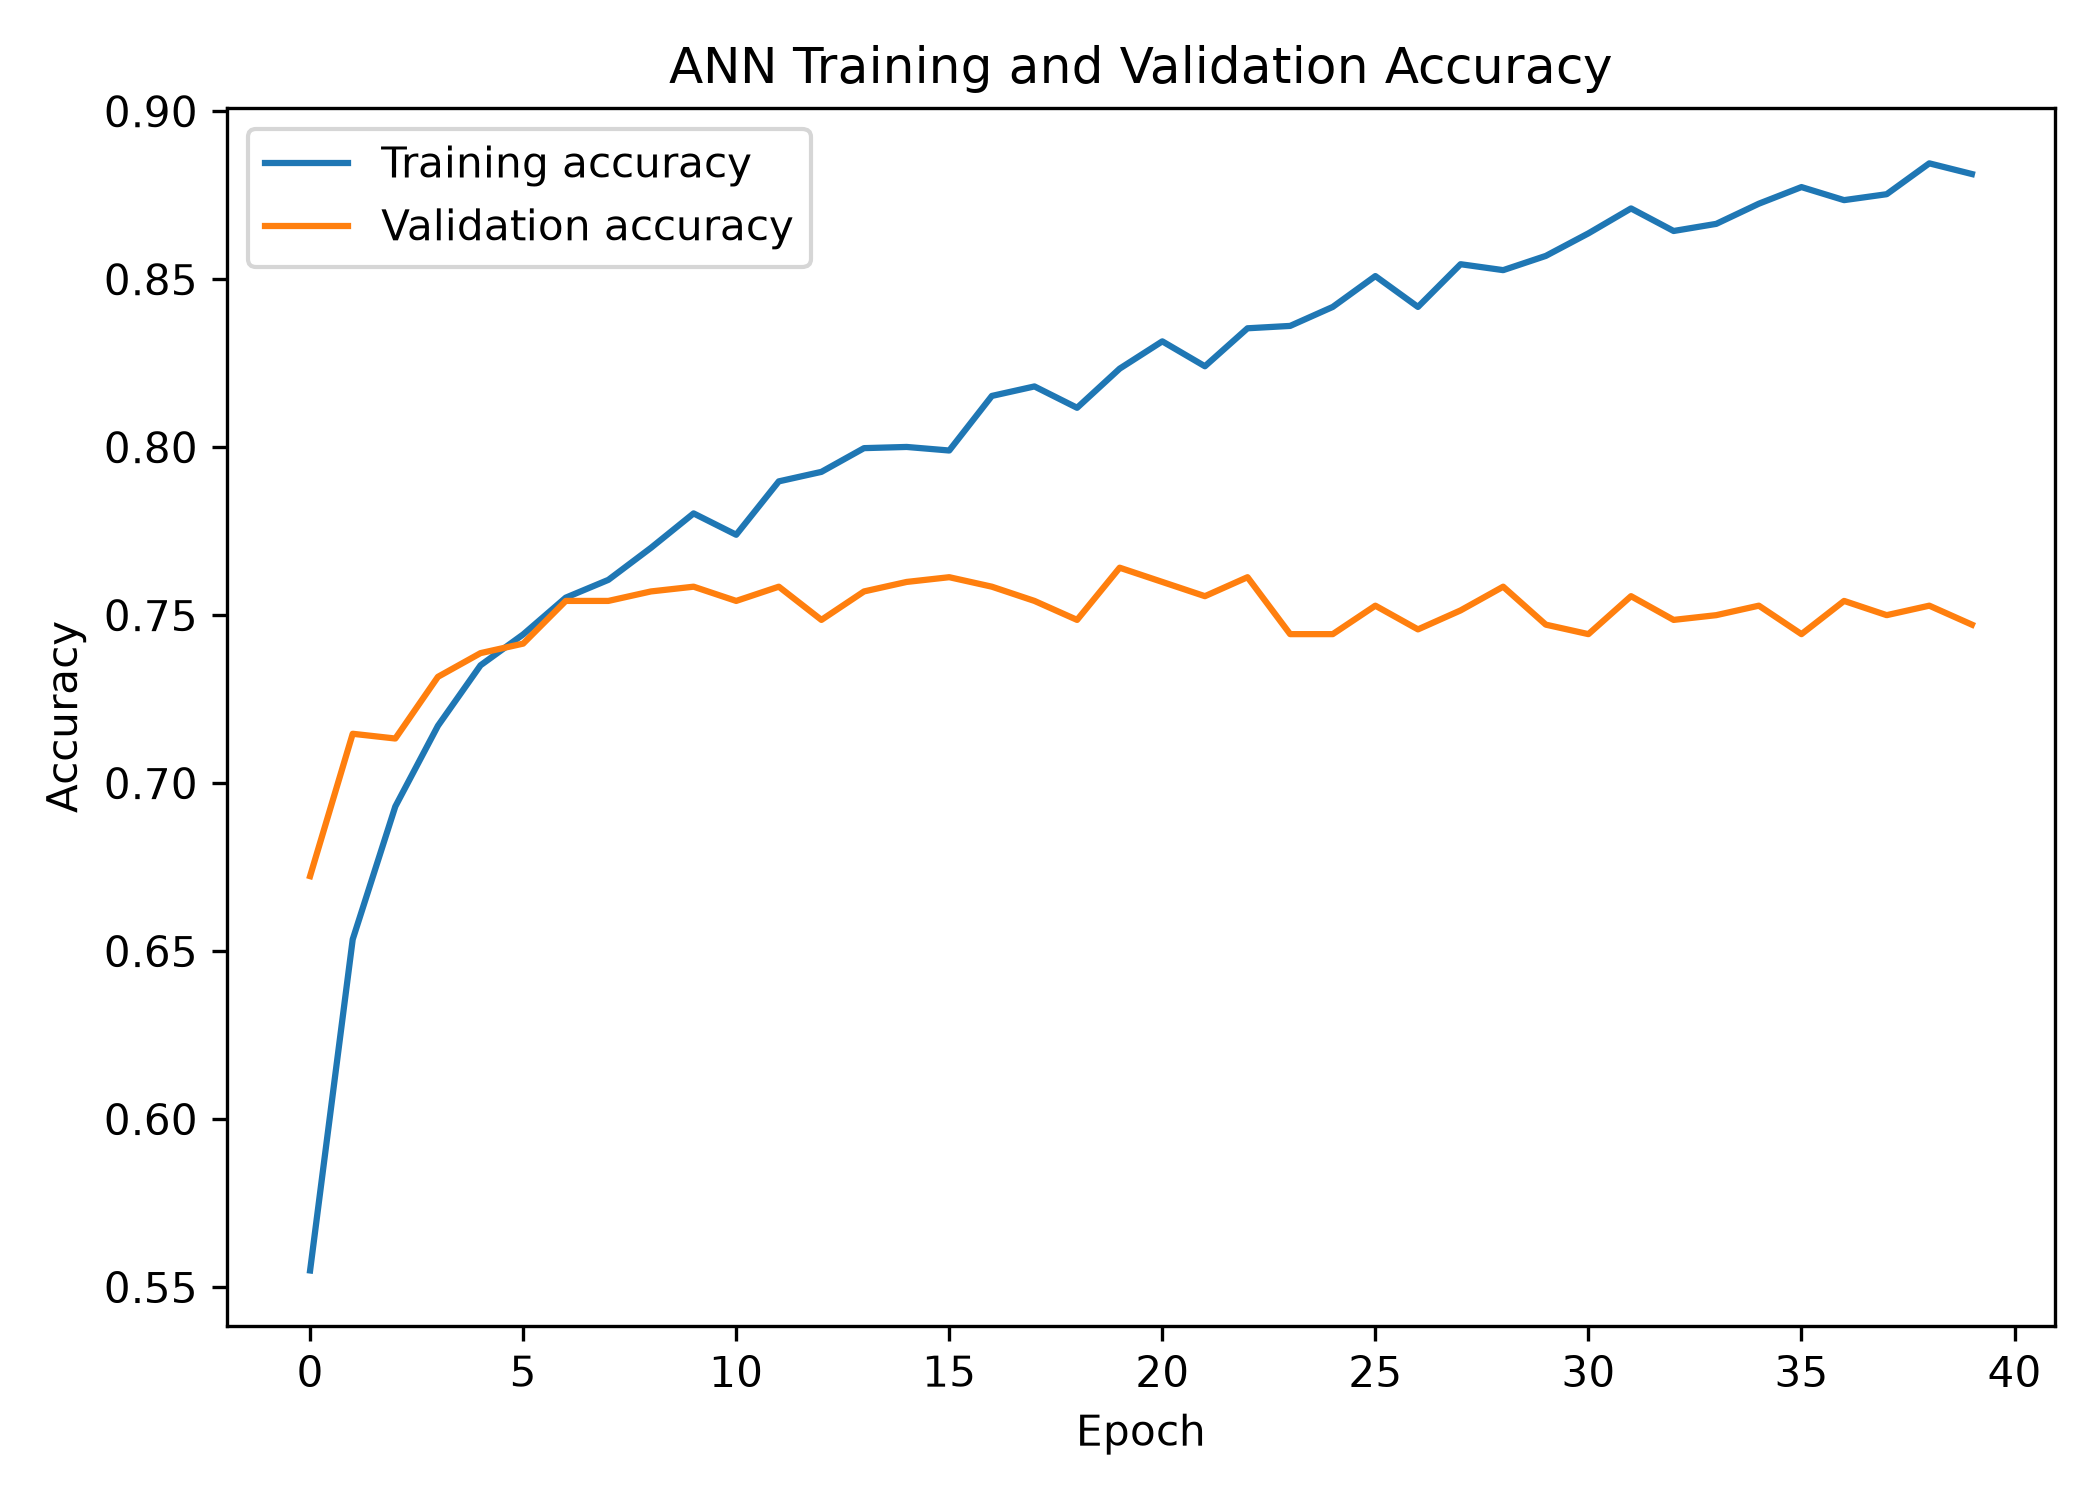
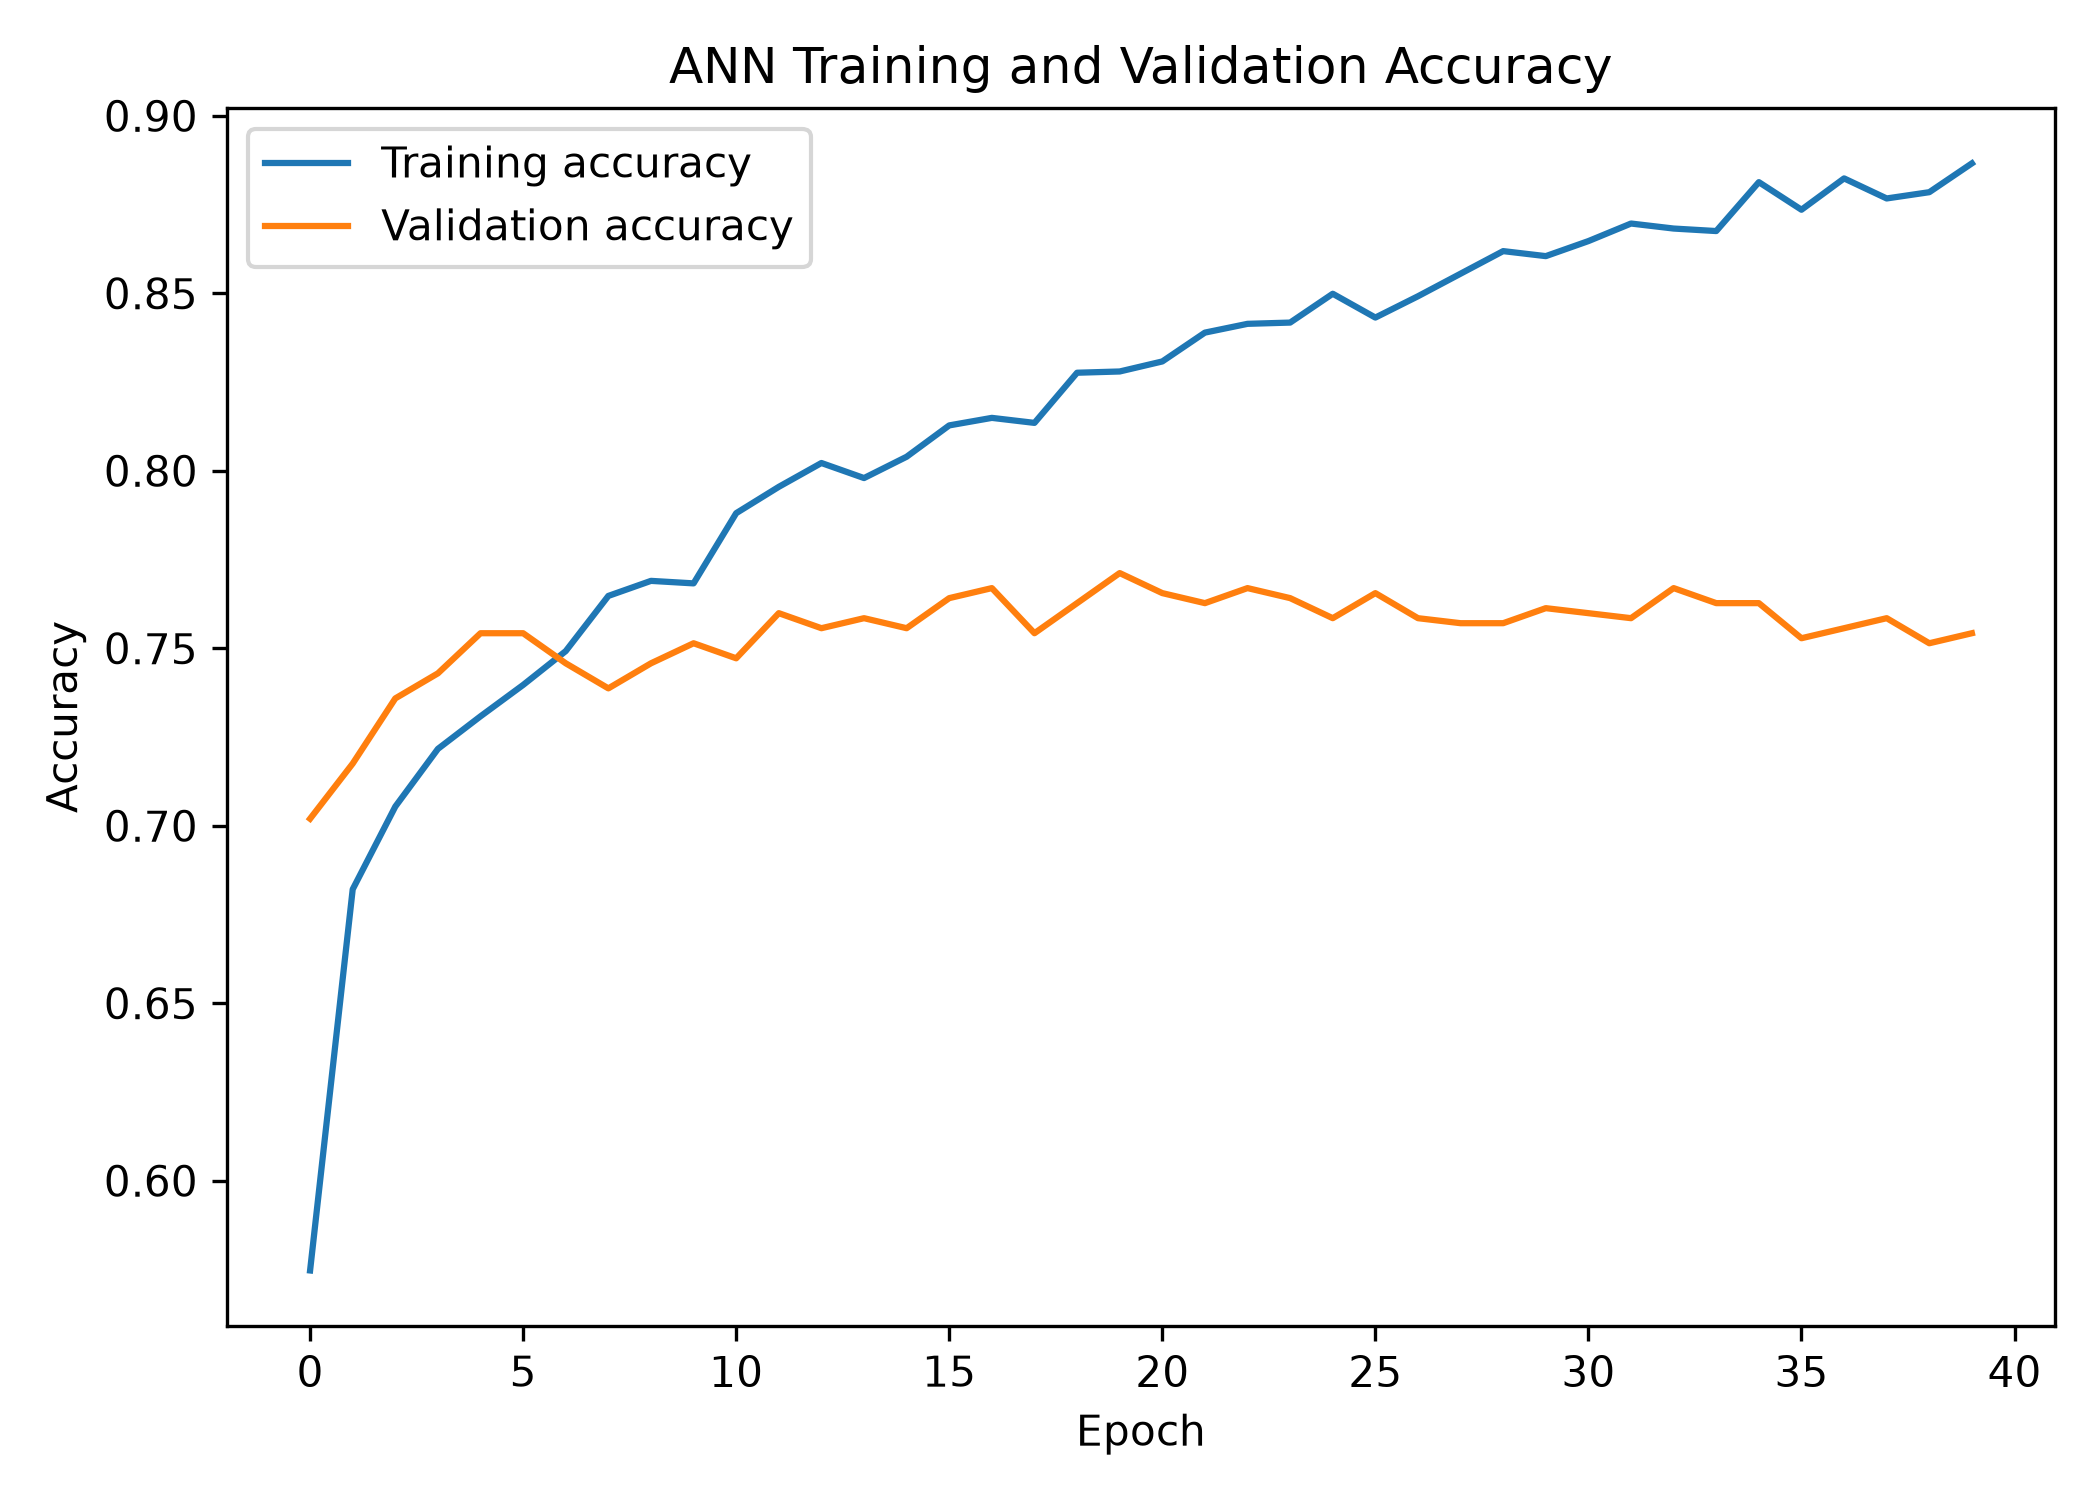
added random forest timing and updated ANN classification decimal places

diff --git a/scripts/classification_models.py b/scripts/classification_models.py
@@ -7,6 +7,9 @@ import matplotlib.pyplot as plt
 
 np.random.seed(42)
 
+from time import perf_counter
+from sklearn.base import clone
+
 from sklearn.compose import ColumnTransformer
 from sklearn.ensemble import RandomForestClassifier
 from sklearn.linear_model import LogisticRegression
@@ -30,9 +33,9 @@ from sklearn.pipeline import Pipeline
 from sklearn.preprocessing import OneHotEncoder, StandardScaler
 
 
-# ---------------------------------------------------------
+
 # Load and prepare data
-# ---------------------------------------------------------
+
 
 PROJECT_ROOT = Path(__file__).resolve().parents[1]
 DATA_PATH = PROJECT_ROOT / "data" / "raw" / "student_outcomes.csv"
@@ -70,9 +73,8 @@ print(f"Training set: {len(X_train)} samples")
 print(f"Test set:     {len(X_test)} samples (held out until final evaluation)")
 
 
-# ---------------------------------------------------------
 # Feature groups and preprocessing
-# ---------------------------------------------------------
+
 
 categorical_features = [
     "Marital Status",
@@ -130,9 +132,9 @@ forest_preprocessor = ColumnTransformer(
 )
 
 
-# ---------------------------------------------------------
+
 # Candidate models
-# ---------------------------------------------------------
+
 
 models = {
     "Logistic Regression": Pipeline(
@@ -156,8 +158,7 @@ models = {
     ),
 }
 
-# Stratified 5-fold CV mirrors the taught classification workflow and
-# keeps class proportions similar in every fold.
+# Stratified 5-fold CV mirrors the taught classification workflow and keeps class proportions similar in every fold.
 cv = StratifiedKFold(n_splits=5, shuffle=True, random_state=42)
 
 scoring = {
@@ -168,9 +169,9 @@ scoring = {
 }
 
 
-# ---------------------------------------------------------
+
 # 5-fold cross-validation model comparison
-# ---------------------------------------------------------
+
 
 comparison_rows = []
 
@@ -212,9 +213,9 @@ print(comparison.round(3).to_string(index=False))
 print("=" * 78)
 
 
-# ---------------------------------------------------------
+
 # Hyperparameter tuning with cross-validation
-# ---------------------------------------------------------
+
 
 logistic_grid = {
     "classifier__C": [0.01, 0.1, 1, 10, 100],
@@ -283,9 +284,8 @@ print(f"Mean training macro F1: {best_rf_row['mean_train_score']:.3f}")
 print(f"Mean CV fit time: {best_rf_row['mean_fit_time']:.3f} seconds")
 
 
-# ---------------------------------------------------------
 # Class-level cross-validation comparison
-# ---------------------------------------------------------
+
 
 class_names = ["Dropout", "Enrolled", "Graduate"]
 
@@ -327,9 +327,7 @@ for name, predictions, csv_name, figure_name in [
     plt.close()
 
 
-# ---------------------------------------------------------
-# Final Logistic Regression evaluation on held-out test set
-# ---------------------------------------------------------
+# Final Logistic Regression and Random Forest evaluation on held-out test set
 
 final_model = logistic_search.best_estimator_
 
@@ -341,10 +339,31 @@ start = time()
 y_pred = final_model.predict(X_test)
 prediction_time = time() - start
 
+
+# Random Forest timing for comparison
+final_rf_model = forest_search.best_estimator_
+
+start = time()
+final_rf_model.fit(X_train, y_train)
+rf_training_time = time() - start
+
+start = time()
+rf_y_pred = final_rf_model.predict(X_test)
+rf_prediction_time = time() - start
+
 accuracy = accuracy_score(y_test, y_pred)
 macro_precision = precision_score(y_test, y_pred, average="macro")
 macro_recall = recall_score(y_test, y_pred, average="macro")
 macro_f1 = f1_score(y_test, y_pred, average="macro")
+
+print("\nModel Timing Comparison")
+print("=" * 50)
+print(f"Logistic Regression training time: {training_time:.3f} seconds")
+print(f"Random Forest training time:       {rf_training_time:.3f} seconds")
+print()
+print(f"Logistic Regression prediction time: {prediction_time:.3f} seconds")
+print(f"Random Forest prediction time:       {rf_prediction_time:.3f} seconds")
+print("=" * 50)
 
 print("\nFinal Test Set Evaluation")
 print("=" * 50)
@@ -403,9 +422,9 @@ plt.savefig(FIGURES_DIR / "final_test_confusion_matrix.png", dpi=300)
 plt.close()
 
 
-# ---------------------------------------------------------
+
 # Logistic Regression coefficients
-# ---------------------------------------------------------
+
 
 preprocessor = final_model.named_steps["preprocessor"]
 classifier = final_model.named_steps["classifier"]
@@ -457,3 +476,4 @@ plt.title("Strongest Logistic Regression Associations with Dropout")
 plt.tight_layout()
 plt.savefig(FIGURES_DIR / "dropout_logistic_coefficients.png", dpi=300)
 plt.close()
+

diff --git a/scripts/neural_network.py b/scripts/neural_network.py
@@ -21,9 +21,8 @@ from tensorflow.keras.layers import Dense, Dropout, Input
 from tensorflow.keras.models import Sequential
 
 
-# ---------------------------------------------------------
+
 # Reproducibility and folders
-# ---------------------------------------------------------
 
 np.random.seed(42)
 tf.random.set_seed(42)
@@ -36,9 +35,8 @@ OUTPUT_DIR.mkdir(parents=True, exist_ok=True)
 FIGURES_DIR.mkdir(parents=True, exist_ok=True)
 
 
-# ---------------------------------------------------------
+
 # Load and prepare data
-# ---------------------------------------------------------
 
 df = pd.read_csv(DATA_PATH)
 
@@ -78,9 +76,9 @@ print(f"ANN training set:   {len(X_train)} samples")
 print(f"ANN validation set: {len(X_val)} samples")
 
 
-# ---------------------------------------------------------
+
 # Preprocessing
-# ---------------------------------------------------------
+
 
 categorical_features = [
     "Marital Status",
@@ -142,9 +140,9 @@ y_train_encoded = y_train.map(target_mapping).to_numpy()
 y_val_encoded = y_val.map(target_mapping).to_numpy()
 
 
-# ---------------------------------------------------------
+
 # Build and train ANN
-# ---------------------------------------------------------
+
 
 model = Sequential(
     [
@@ -175,9 +173,8 @@ history = model.fit(
 )
 
 
-# ---------------------------------------------------------
 # Validation evaluation
-# ---------------------------------------------------------
+
 
 probabilities = model.predict(X_val_processed, verbose=0)
 y_pred = np.argmax(probabilities, axis=1)
@@ -205,6 +202,33 @@ pd.DataFrame(
     }
 ).to_csv(OUTPUT_DIR / "ann_validation_metrics.csv", index=False)
 
+
+
+# Classification report
+
+
+report = classification_report(
+    y_val_encoded,
+    y_pred,
+    target_names=class_names,
+    output_dict=True
+)
+
+classification_df = pd.DataFrame(report).transpose()
+
+print("\nClassification Report:")
+print(classification_df.round(3))
+
+
+# Save classification report to CSV
+classification_df.to_csv(
+    OUTPUT_DIR / "ann_classification_report.csv",
+    index=True,
+    float_format="%.3f"
+)
+
+
+
 cm = confusion_matrix(y_val_encoded, y_pred)
 ConfusionMatrixDisplay(cm, display_labels=class_names).plot(cmap="Blues")
 plt.title("ANN Validation Confusion Matrix")
@@ -213,9 +237,9 @@ plt.savefig(FIGURES_DIR / "ann_validation_confusion_matrix.png", dpi=300)
 plt.close()
 
 
-# ---------------------------------------------------------
+
 # Training history
-# ---------------------------------------------------------
+
 
 plt.figure(figsize=(7, 5))
 plt.plot(history.history["loss"], label="Training loss")

diff --git a/scripts/explore_data.py b/scripts/explore_data.py
@@ -4,9 +4,9 @@ import pandas as pd
 import matplotlib.pyplot as plt
 
 
-# ---------------------------------------------------------
+
 # Load data
-# ---------------------------------------------------------
+
 
 PROJECT_ROOT = Path(__file__).resolve().parents[1]
 DATA_PATH = PROJECT_ROOT / "data" / "raw" / "student_outcomes.csv"
@@ -20,9 +20,9 @@ print(f"Missing values: {df.isna().sum().sum()}")
 print(f"Duplicate rows: {df.duplicated().sum()}")
 
 
-# ---------------------------------------------------------
+
 # Target distribution
-# ---------------------------------------------------------
+
 
 class_order = ["Dropout", "Enrolled", "Graduate"]
 class_counts = df["Target"].value_counts().reindex(class_order)
@@ -43,9 +43,9 @@ plt.savefig(FIGURES_DIR / "target_distribution.png", dpi=300)
 plt.close()
 
 
-# ---------------------------------------------------------
+
 # Bivariate analysis
-# ---------------------------------------------------------
+
 
 numerical_features = [
     "Age at enrollment",
@@ -84,9 +84,9 @@ for feature, (title, filename) in plot_features.items():
     plt.close()
 
 
-# ---------------------------------------------------------
+
 # Selected categorical relationships
-# ---------------------------------------------------------
+
 
 categorical_checks = {
     "Tuition fees up to date": ["Not up to date", "Up to date"],
